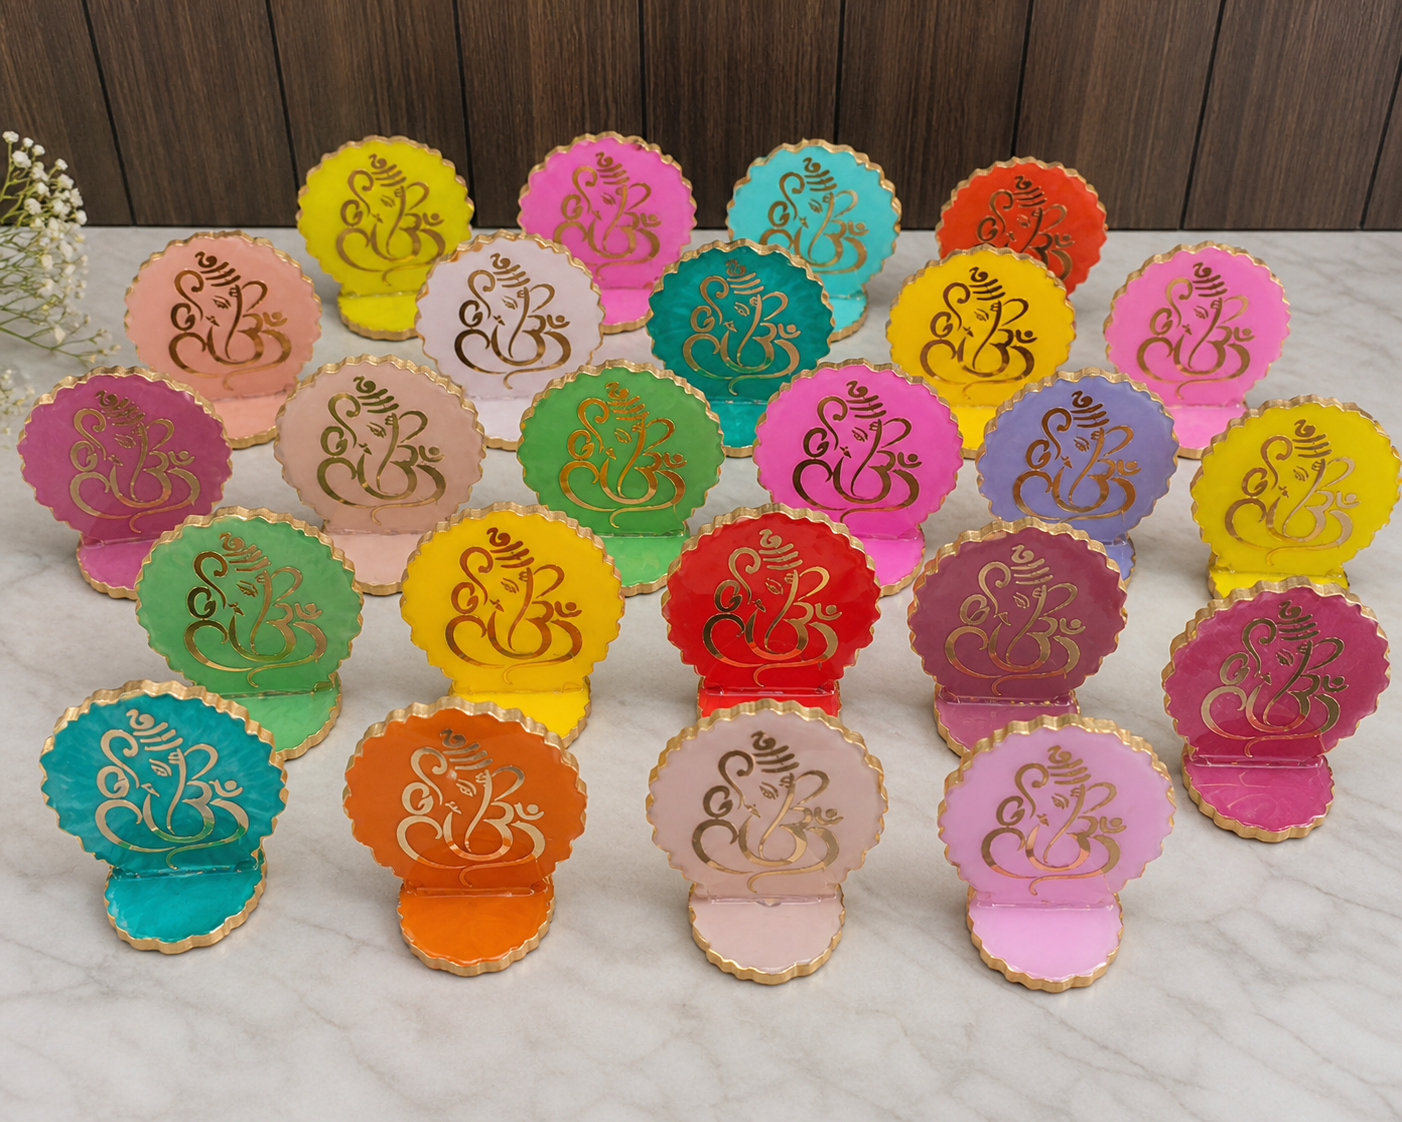
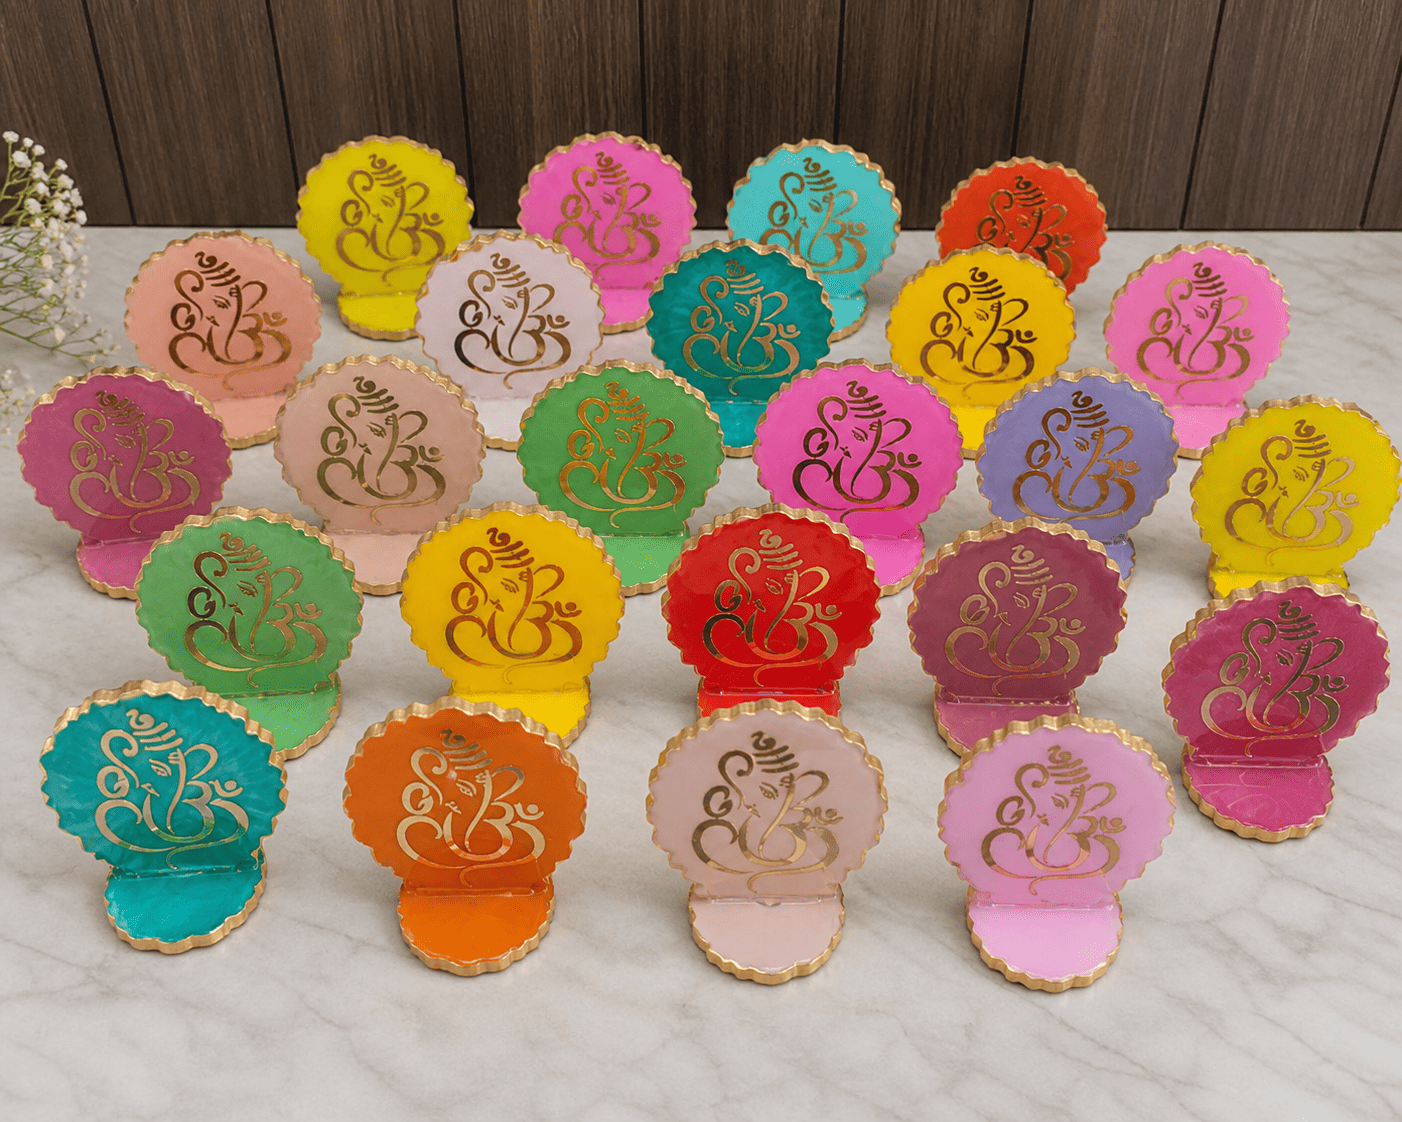
Website Loaded

Changed region(s): [[0.5827, 0.2496, 0.6134, 0.2807], [0.184, 0.6239, 0.2147, 0.6551]]

diff --git a/src/components/Categories.jsx b/src/components/Categories.jsx
@@ -2,13 +2,13 @@ import { useNavigate } from "react-router-dom";
 
 const categories = [
   { name: "Resin", image: "/images/Resin/PPT1.jpeg", slug: "resin" },
-  { name: "Earring", image: "/images/Earring/EarringBG.png", slug: "earring" },
-  { name: "Bangles", image: "/images/Bangles/BangleBG.png", slug: "bangle" },
+  { name: "Earring", image: "/images/Earring/EarringBG.webp", slug: "earring" },
+  { name: "Bangles", image: "/images/Bangles/BangleBG.webp", slug: "bangle" },
   { name: "Potli Bag", image: "/images/Potli/PotliBG.jpeg", slug: "potli" },
   { name: "Candles", image: "/images/Candle/CandleBG2.jpg", slug: "candle" },
-  { name: "Hamper", image: "/images/Hampers/HamperBG.jpg", slug: "hamper" },
-  { name: "Decorative Box", image: "/images/Tiffin/BoxBG.png", slug: "box" },
-  { name: "Stand", image: "/images/Stand/StandBG.png", slug: "stands" },
+  { name: "Hamper", image: "/images/Hampers/HamperBG.webp", slug: "hamper" },
+  { name: "Decorative Box", image: "/images/Tiffin/BoxBG.webp", slug: "box" },
+  { name: "Stand", image: "/images/Stand/StandBG.webp", slug: "stands" },
 ];
 
 export default function Categories() {

diff --git a/src/components/Hero.jsx b/src/components/Hero.jsx
@@ -3,7 +3,7 @@ export default function Hero() {
     <section
       className="h-[340px] md:h-[410px] bg-cover md:bg-cover bg-contain bg-no-repeat bg-center -mt-13 -mb-11 md:mt-0 md:mb-0"
       style={{
-        backgroundImage: "url('/images/BannerImg.png')",
+        backgroundImage: "url('/images/BannerImg.webp')",
       }}
     ></section>
   );
